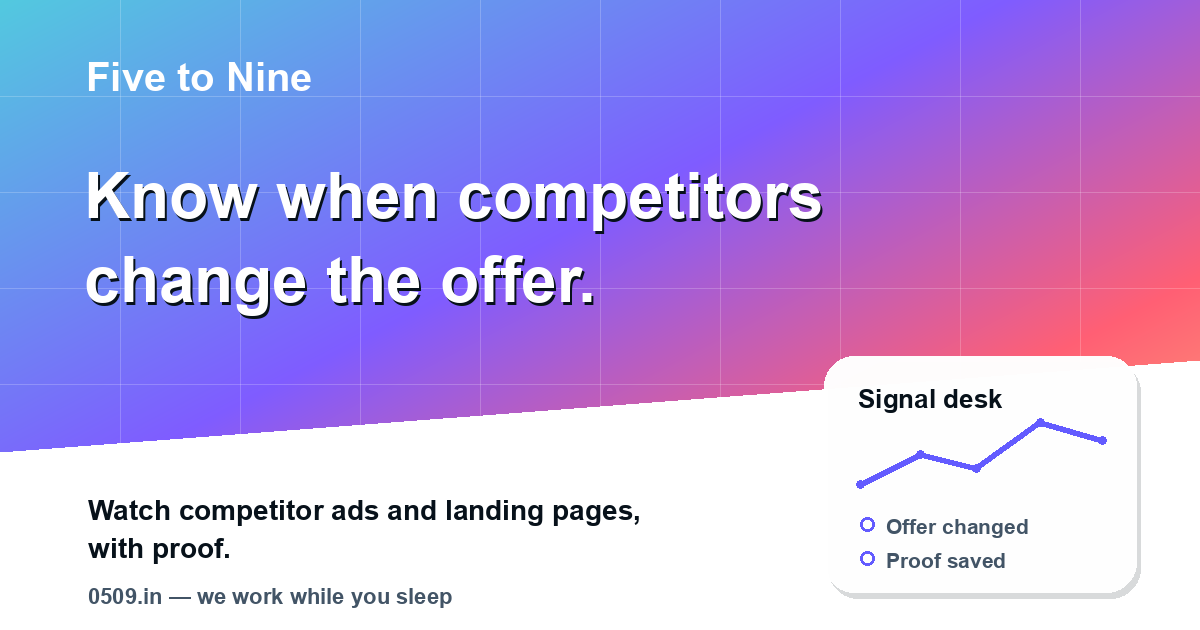
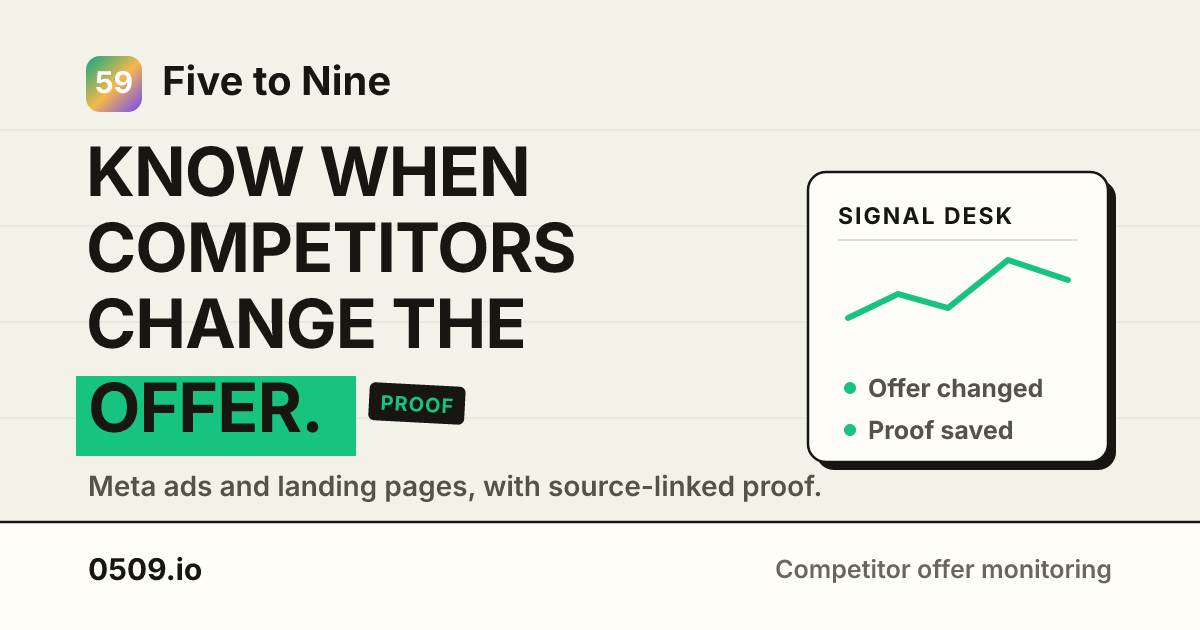
salvage: bank uncommitted work for unit pi-issue-0509-2956

diff --git a/app/lib/seo.ts b/app/lib/seo.ts
@@ -21,6 +21,24 @@ const SOCIAL_IMAGE_URL = `${SITE_ORIGIN}${SOCIAL_IMAGE_PATH}`;
 const LEGACY_SOCIAL_CARD_PATH = "/social-card.svg";
 const SOCIAL_IMAGE_ALT = "Five to Nine competitor offer monitoring preview";
 
+/**
+ * Social-card palette (issue #2956): mirrors the live workspace tokens in
+ * app.css — `--bone` page field, `--card` panel, `--ink` text/rules,
+ * `--green` accent — so link previews render the cream Evidence Desk look
+ * instead of the retired blue-purple gradient. Shared with the per-route
+ * cards in `social-cards.server.ts` so the two card families cannot drift
+ * apart again.
+ */
+export const SOCIAL_CARD_COLORS = {
+  bone: "#f4f1e8",
+  card: "#fffdf8",
+  ink: "#171611",
+  inkSoft: "#55524a",
+  inkFaint: "#6a665b",
+  line: "#e0ddd4",
+  green: "#16c47f",
+} as const;
+
 export function canonicalUrl(pathname: string): string {
   const normalizedPath = pathname.startsWith("/") ? pathname : `/${pathname}`;
   const pathOnly = normalizedPath.split(/[?#]/)[0] ?? "/";
@@ -1190,35 +1208,51 @@ ${LOCALE_SITEMAP_LINES}
 ${GROUNDING_BLOCKS}
 `;
 
+// This is the SVG source the checked-in public/og-image.png was rasterized
+// from (resvg-wasm + the embedded Inter Bold/SemiBold buffers the worker uses,
+// issue #2956). Regenerate the PNG from this markup if the card ever changes —
+// do not let the two drift apart again.
 const SOCIAL_CARD_SVG = `<svg xmlns="http://www.w3.org/2000/svg" width="1200" height="630" viewBox="0 0 1200 630" role="img" aria-labelledby="title desc">
   <title id="title">Five to Nine</title>
   <desc id="desc">Competitor offer monitoring workspace preview for Five to Nine.</desc>
   <defs>
-    <linearGradient id="sky" x1="0" x2="1" y1="0" y2="1">
-      <stop offset="0" stop-color="#52c9df"/>
-      <stop offset="0.42" stop-color="#7f5cff"/>
-      <stop offset="0.72" stop-color="#ff5f74"/>
-      <stop offset="1" stop-color="#f9c37b"/>
+    <linearGradient id="token" x1="0" y1="0" x2="1" y2="1">
+      <stop offset="0" stop-color="#0AA982"/>
+      <stop offset="0.52" stop-color="#F5B84B"/>
+      <stop offset="1" stop-color="#7047FF"/>
     </linearGradient>
   </defs>
-  <rect width="1200" height="630" fill="url(#sky)"/>
-  <path d="M0 420 L1200 300 L1200 630 L0 630 Z" fill="#fff"/>
-  <g opacity="0.23" stroke="#fff" stroke-width="1">
-    <path d="M0 96H1200"/><path d="M0 192H1200"/><path d="M0 288H1200"/><path d="M0 384H1200"/>
-    <path d="M120 0V630"/><path d="M240 0V630"/><path d="M360 0V630"/><path d="M480 0V630"/>
-    <path d="M600 0V630"/><path d="M720 0V630"/><path d="M840 0V630"/><path d="M960 0V630"/><path d="M1080 0V630"/>
+  <rect width="1200" height="630" fill="${SOCIAL_CARD_COLORS.bone}"/>
+  <g stroke="${SOCIAL_CARD_COLORS.line}" stroke-width="1">
+    <path d="M0 130H1200"/><path d="M0 226H1200"/><path d="M0 322H1200"/><path d="M0 418H1200"/>
   </g>
-  <g font-family="Inter, Arial, sans-serif" font-weight="800">
-    <text x="86" y="92" fill="#fff" font-size="42">Five to Nine</text>
-    <text x="86" y="222" fill="#07111a" font-size="78">Know when competitors</text>
-    <text x="86" y="318" fill="#07111a" font-size="78">change the offer.</text>
-  <text x="88" y="418" fill="#344052" font-size="34" font-weight="600">Watch ads and landing pages with sources.</text>
-    <rect x="780" y="118" width="340" height="330" rx="34" fill="#ffffff" opacity="0.9"/>
-    <text x="818" y="180" fill="#07111a" font-size="28">Competitor changes</text>
-    <path d="M820 260 L884 230 L944 246 L1014 186 L1080 206" fill="none" stroke="#635bff" stroke-width="7" stroke-linecap="round"/>
-    <text x="818" y="340" fill="#425466" font-size="26" font-weight="700">Offer changed</text>
-    <text x="818" y="386" fill="#425466" font-size="26" font-weight="700">Landing page saved</text>
-    <text x="818" y="432" fill="#425466" font-size="26" font-weight="700">Saved evidence</text>
+  <rect y="522" width="1200" height="108" fill="${SOCIAL_CARD_COLORS.card}"/>
+  <path d="M0 522H1200" stroke="${SOCIAL_CARD_COLORS.ink}" stroke-width="2.5"/>
+  <g font-family="Inter, Arial, sans-serif">
+    <rect x="86" y="56" width="56" height="56" rx="14" fill="url(#token)"/>
+    <text x="114" y="93" text-anchor="middle" font-size="30" font-weight="800" fill="#ffffff">59</text>
+    <text x="162" y="95" font-size="40" font-weight="800" fill="${SOCIAL_CARD_COLORS.ink}">Five to Nine</text>
+    <text x="86" y="196" font-size="68" font-weight="800" fill="${SOCIAL_CARD_COLORS.ink}" letter-spacing="-1">KNOW WHEN</text>
+    <text x="86" y="272" font-size="68" font-weight="800" fill="${SOCIAL_CARD_COLORS.ink}" letter-spacing="-1">COMPETITORS</text>
+    <text x="86" y="348" font-size="68" font-weight="800" fill="${SOCIAL_CARD_COLORS.ink}" letter-spacing="-1">CHANGE THE</text>
+    <rect x="76" y="376" width="280" height="80" fill="${SOCIAL_CARD_COLORS.green}"/>
+    <text x="88" y="432" font-size="68" font-weight="800" fill="${SOCIAL_CARD_COLORS.ink}" letter-spacing="-1">OFFER.</text>
+    <g transform="translate(370,382) rotate(3)">
+      <rect width="96" height="38" rx="6" fill="${SOCIAL_CARD_COLORS.ink}"/>
+      <text x="48" y="27" text-anchor="middle" font-size="20" font-weight="700" fill="${SOCIAL_CARD_COLORS.green}" letter-spacing="1">PROOF</text>
+    </g>
+    <text x="88" y="496" font-size="28" font-weight="600" fill="${SOCIAL_CARD_COLORS.inkSoft}">Meta ads and landing pages, with source-linked proof.</text>
+    <rect x="816" y="180" width="300" height="290" rx="18" fill="${SOCIAL_CARD_COLORS.ink}"/>
+    <rect x="808" y="172" width="300" height="290" rx="18" fill="${SOCIAL_CARD_COLORS.card}" stroke="${SOCIAL_CARD_COLORS.ink}" stroke-width="2.5"/>
+    <text x="838" y="224" font-size="23" font-weight="800" fill="${SOCIAL_CARD_COLORS.ink}" letter-spacing="2">SIGNAL DESK</text>
+    <path d="M838 240H1078" stroke="${SOCIAL_CARD_COLORS.line}" stroke-width="2"/>
+    <polyline points="848,318 898,294 948,308 1008,260 1068,280" fill="none" stroke="${SOCIAL_CARD_COLORS.green}" stroke-width="6" stroke-linecap="round" stroke-linejoin="round"/>
+    <circle cx="850" cy="388" r="6" fill="${SOCIAL_CARD_COLORS.green}"/>
+    <text x="868" y="397" font-size="25" font-weight="700" fill="${SOCIAL_CARD_COLORS.inkSoft}">Offer changed</text>
+    <circle cx="850" cy="430" r="6" fill="${SOCIAL_CARD_COLORS.green}"/>
+    <text x="868" y="439" font-size="25" font-weight="700" fill="${SOCIAL_CARD_COLORS.inkSoft}">Proof saved</text>
+    <text x="88" y="580" font-size="30" font-weight="800" fill="${SOCIAL_CARD_COLORS.ink}">0509.io</text>
+    <text x="1112" y="578" text-anchor="end" font-size="25" font-weight="600" fill="${SOCIAL_CARD_COLORS.inkFaint}">Competitor offer monitoring</text>
   </g>
 </svg>
 `;

diff --git a/app/lib/social-cards.server.ts b/app/lib/social-cards.server.ts
@@ -28,16 +28,20 @@
  */
 
 import { brandCategoryFromSlug } from "~/lib/brand-categories";
+import { SOCIAL_CARD_COLORS } from "~/lib/seo";
 
 const SITE_NAME = "Five to Nine";
 
-/** Gradient reused from the site-wide `SOCIAL_CARD_SVG` in seo.ts. */
-const CARD_GRADIENT_DEFS = `<defs>
-    <linearGradient id="sky" x1="0" x2="1" y1="0" y2="1">
-      <stop offset="0" stop-color="#52c9df"/>
-      <stop offset="0.42" stop-color="#7f5cff"/>
-      <stop offset="0.72" stop-color="#ff5f74"/>
-      <stop offset="1" stop-color="#f9c37b"/>
+/**
+ * Brand-token gradient reused from the site-wide `SOCIAL_CARD_SVG` in seo.ts —
+ * the green→amber→violet "59" mark from `brand/five-to-nine-colored-logo.svg`,
+ * not the retired blue-purple field gradient (issue #2956).
+ */
+const CARD_TOKEN_DEFS = `<defs>
+    <linearGradient id="token" x1="0" y1="0" x2="1" y2="1">
+      <stop offset="0" stop-color="#0AA982"/>
+      <stop offset="0.52" stop-color="#F5B84B"/>
+      <stop offset="1" stop-color="#7047FF"/>
     </linearGradient>
   </defs>`;
 
@@ -58,9 +62,12 @@ function clampLine(value: string, max: number): string {
 }
 
 /**
- * Shared 1200×630 card frame: gradient background, the "Five to Nine" wordmark
- * top-left, and a headline + subline pair. Callers supply the two text lines so
- * each surface shapes its own card without re-inlining the SVG skeleton.
+ * Shared 1200×630 card frame (issue #2956): cream `--bone` field with faint
+ * ledger rules, the "59" token + "Five to Nine" wordmark top-left, an ink
+ * headline + muted subline, and an ink-ruled `--card` footer band carrying
+ * `0509.io` — the same palette and frame as the site-wide `og-image.png`
+ * (`SOCIAL_CARD_SVG` in seo.ts). Callers supply the two text lines so each
+ * surface shapes its own card without re-inlining the SVG skeleton.
  */
 function renderCard(input: { headline: string; subline: string }): string {
   const headline = clampLine(escapeSvgText(input.headline), 46);
@@ -68,13 +75,20 @@ function renderCard(input: { headline: string; subline: string }): string {
   return `<svg xmlns="http://www.w3.org/2000/svg" width="1200" height="630" viewBox="0 0 1200 630" role="img" aria-labelledby="title desc">
   <title id="title">${headline}</title>
   <desc id="desc">${subline}</desc>
-  ${CARD_GRADIENT_DEFS}
-  <rect width="1200" height="630" fill="url(#sky)"/>
-  <path d="M0 420 L1200 300 L1200 630 L0 630 Z" fill="#fff"/>
+  ${CARD_TOKEN_DEFS}
+  <rect width="1200" height="630" fill="${SOCIAL_CARD_COLORS.bone}"/>
+  <g stroke="${SOCIAL_CARD_COLORS.line}" stroke-width="1">
+    <path d="M0 130H1200"/><path d="M0 226H1200"/><path d="M0 322H1200"/><path d="M0 418H1200"/>
+  </g>
+  <rect y="522" width="1200" height="108" fill="${SOCIAL_CARD_COLORS.card}"/>
+  <path d="M0 522H1200" stroke="${SOCIAL_CARD_COLORS.ink}" stroke-width="2.5"/>
   <g font-family="Inter, Arial, sans-serif">
-    <text x="86" y="92" fill="#fff" font-size="42" font-weight="800">${SITE_NAME}</text>
-    <text x="86" y="250" fill="#07111a" font-size="68" font-weight="800">${headline}</text>
-    <text x="88" y="330" fill="#344052" font-size="32" font-weight="600">${subline}</text>
+    <rect x="86" y="56" width="56" height="56" rx="14" fill="url(#token)"/>
+    <text x="114" y="93" text-anchor="middle" font-size="30" font-weight="800" fill="#ffffff">59</text>
+    <text x="162" y="95" font-size="40" font-weight="800" fill="${SOCIAL_CARD_COLORS.ink}">${SITE_NAME}</text>
+    <text x="86" y="280" fill="${SOCIAL_CARD_COLORS.ink}" font-size="68" font-weight="800">${headline}</text>
+    <text x="88" y="350" fill="${SOCIAL_CARD_COLORS.inkSoft}" font-size="32" font-weight="600">${subline}</text>
+    <text x="88" y="580" font-size="30" font-weight="800" fill="${SOCIAL_CARD_COLORS.ink}">0509.io</text>
   </g>
 </svg>
 `;

diff --git a/tests/integration/social-card-raster.integration.test.ts b/tests/integration/social-card-raster.integration.test.ts
@@ -1,7 +1,13 @@
 import { describe, expect, it } from "vitest";
 
+import { publicSeoFileForPathname } from "~/lib/seo";
 import { publicSocialCardForRequest } from "~/lib/social-cards.server";
 import { rasterizeSocialCardPng } from "~/lib/social-cards-raster.server";
+
+// @ts-ignore — Vite inlines the .png as a base64 data URI with ?inline; the
+// workerd test pool has no host filesystem, so the committed asset has to
+// ride in as a module like the rasterizer's .ttf buffers.
+import ogImageDataUri from "../../public/og-image.png?inline";
 
 /**
  * Issue #2089 — the /ads and /timeline social cards must be served as PNG
@@ -54,5 +60,26 @@ describe("ads/timeline social card rasterization (issue #2089)", () => {
     expect(width).toBe(1200);
     expect(height).toBe(630);
     expect(png.length).toBeGreaterThan(10_000);
+  });
+
+  /**
+   * Issue #2956 — the checked-in `public/og-image.png` must be byte-identical
+   * to a resvg render of `SOCIAL_CARD_SVG` (served at /social-card.svg). The
+   * stale-card regression this issue fixed was exactly a drift between the
+   * card markup and the committed PNG; resvg-wasm is deterministic for the
+   * same wasm + fonts, so the equality gate makes the two artifacts unable to
+   * diverge again. A failing run here means: regenerate the PNG from the SVG
+   * (the same rasterizer and Inter buffers the worker uses) and commit it.
+   */
+  it("keeps public/og-image.png byte-identical to the rendered card SVG", async () => {
+    const card = publicSeoFileForPathname("/social-card.svg");
+    expect(card?.body).toContain("0509.io");
+
+    const png = await rasterizeSocialCardPng(card!.body);
+    const base64 = (ogImageDataUri as string).split(";base64,")[1];
+    const binary = atob(base64);
+    const committed = new Uint8Array(binary.length);
+    for (let i = 0; i < binary.length; i += 1) committed[i] = binary.charCodeAt(i) & 0xff;
+    expect(png).toEqual(committed);
   });
 });

diff --git a/tests/seo.test.ts b/tests/seo.test.ts
@@ -132,10 +132,16 @@ describe("public SEO files", () => {
   it("keeps the cached social card customer-facing", () => {
     const card = publicSeoFileForPathname("/social-card.svg");
 
-    expect(card?.body).toContain("Watch ads and landing pages with sources.");
-    expect(card?.body).toContain("Saved evidence");
-    expect(card?.body).not.toContain("with proof");
-    expect(card?.body).not.toContain("Saved proof");
+    // Regression pins for issue #2956: the card renders the live cream
+    // palette and the 0509.io domain — never the retired blue-purple
+    // gradient, the .in domain, or the "we work while you sleep" tagline.
+    expect(card?.body).toContain("#f4f1e8");
+    expect(card?.body).toContain("0509.io");
+    expect(card?.body).toContain("Offer changed");
+    expect(card?.body).toContain("source-linked proof");
+    expect(card?.body).not.toContain("0509.in");
+    expect(card?.body).not.toContain("while you sleep");
+    expect(card?.body).not.toContain("#7f5cff");
   });
 
   it("keeps skill.md entry points on the io domain", () => {
